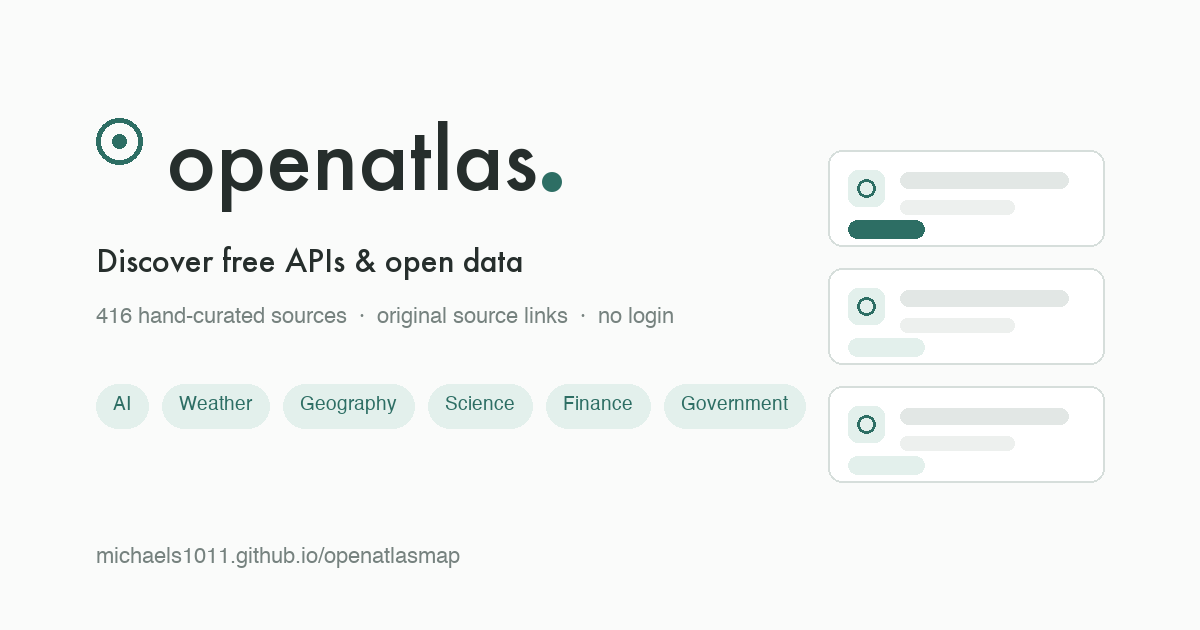
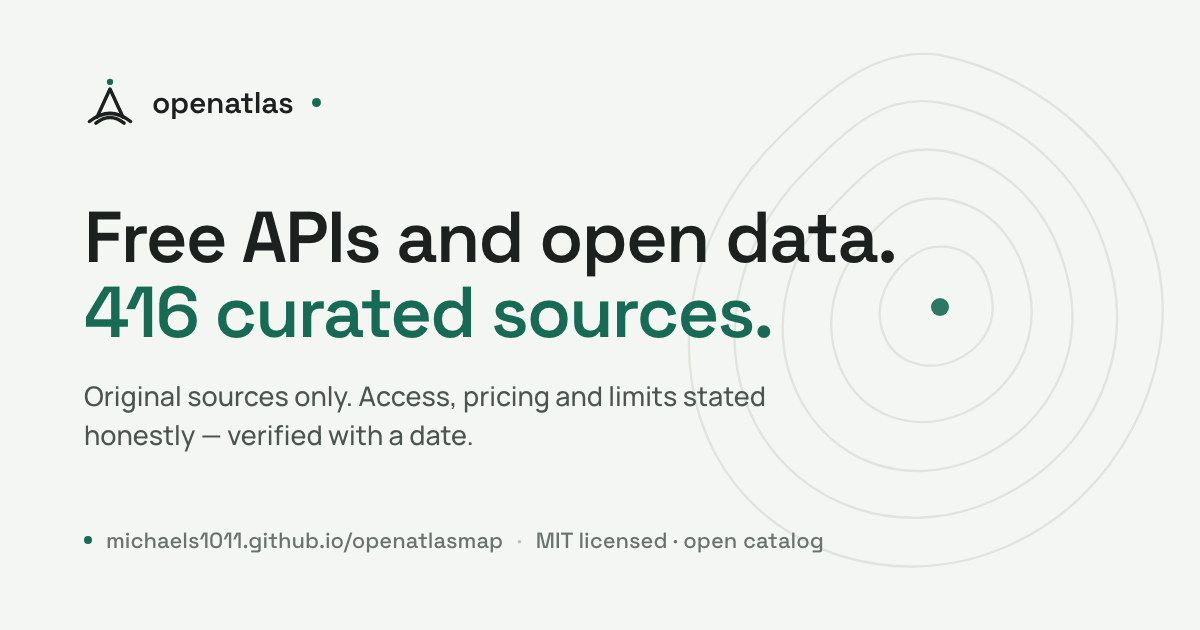
Refresh social preview card with Topo-Chevron brand; add its HTML source under scripts/

diff --git a/scripts/social-card.html b/scripts/social-card.html
@@ -1,0 +1,68 @@
+<!doctype html>
+<html>
+<head>
+<meta charset="utf-8">
+<style>
+  @font-face { font-family: "Space Grotesk"; src: url("file:///Users/mimiai/Documents/deepseek-harness/default-workspace/openatlasmap/node_modules/@fontsource-variable/space-grotesk/files/space-grotesk-latin-wght-normal.woff2"); font-weight: 300 700; }
+  @font-face { font-family: "Manrope"; src: url("file:///Users/mimiai/Documents/deepseek-harness/default-workspace/openatlasmap/node_modules/@fontsource-variable/manrope/files/manrope-latin-wght-normal.woff2"); font-weight: 200 800; }
+  * { margin: 0; padding: 0; box-sizing: border-box; }
+  html, body { width: 1200px; height: 630px; overflow: hidden; }
+  body {
+    background: #f4f6f3;
+    font-family: "Manrope", sans-serif;
+    color: #1c201e;
+    position: relative;
+    -webkit-font-smoothing: antialiased;
+  }
+  .topo {
+    position: absolute; right: -60px; top: 50%; transform: translateY(-50%);
+    width: 640px; height: 640px; opacity: 0.9;
+  }
+  .wrap { position: absolute; inset: 0; padding: 76px 84px; display: flex; flex-direction: column; justify-content: space-between; }
+  .brand { display: flex; align-items: center; gap: 16px; width: fit-content; }
+  .brand svg { display: block; color: #1c201e; }
+  .wordmark { font-family: "Space Grotesk"; font-weight: 600; font-size: 30px; letter-spacing: -0.01em; }
+  .dot { width: 9px; height: 9px; border-radius: 50%; background: #176b54; margin-left: 2px; }
+  h1 { font-family: "Space Grotesk"; font-weight: 600; font-size: 72px; line-height: 1.04; letter-spacing: -0.025em; max-width: 960px; }
+  h1 .accent { color: #176b54; }
+  .sub { font-family: "Manrope"; font-weight: 500; font-size: 27px; line-height: 1.45; color: #4c544f; max-width: 700px; margin-top: 26px; }
+  .foot { display: flex; align-items: center; gap: 14px; font-family: "Space Grotesk"; font-weight: 500; font-size: 22px; color: #6a726c; }
+  .foot .pip { width: 8px; height: 8px; border-radius: 50%; background: #176b54; }
+  .foot .sep { color: #b9c0ba; }
+</style>
+</head>
+<body>
+  <svg class="topo" viewBox="0 0 640 640" fill="none" aria-hidden="true">
+    <g stroke="#dde3dc" stroke-width="2.4">
+      <path d="M320 60 C 420 80 520 160 540 280 C 556 380 500 500 390 550 C 280 600 150 560 96 460 C 46 368 66 240 150 152 C 214 86 260 52 320 60 Z"/>
+      <path d="M322 108 C 404 124 476 190 494 288 C 510 374 464 466 372 506 C 282 546 180 512 136 430 C 96 354 112 252 182 180 C 234 126 268 98 322 108 Z"/>
+      <path d="M324 156 C 388 168 436 218 450 294 C 462 362 428 432 356 464 C 284 494 210 466 178 400 C 150 342 160 266 214 210 C 252 170 276 148 324 156 Z"/>
+      <path d="M326 204 C 372 212 400 246 410 298 C 418 344 396 394 344 418 C 292 440 240 420 220 372 C 202 330 212 280 248 242 C 272 216 288 200 326 204 Z"/>
+      <path d="M328 252 C 356 256 368 276 372 304 C 376 330 362 354 334 366 C 304 378 274 366 264 340 C 254 316 262 290 282 270 C 296 256 308 250 328 252 Z"/>
+    </g>
+    <circle cx="320" cy="312" r="9" fill="#176b54"/>
+  </svg>
+  <div class="wrap">
+    <div class="brand">
+      <svg width="52" height="52" viewBox="0 0 48 48" fill="none" stroke-linecap="round" stroke-linejoin="round">
+        <path d="M12 38 L24 12 L36 38" stroke="#1c201e" stroke-width="3.2"/>
+        <path d="M5 42 Q24 27 43 42" stroke="#1c201e" stroke-width="3.2"/>
+        <path d="M11 43.5 Q24 33 37 43.5" stroke="#1c201e" stroke-width="3.2"/>
+        <circle cx="24" cy="5.5" r="2.9" fill="#176b54"/>
+      </svg>
+      <span class="wordmark">openatlas</span>
+      <span class="dot"></span>
+    </div>
+    <div>
+      <h1>Free APIs and open data.<br><span class="accent">416 curated sources.</span></h1>
+      <p class="sub">Original sources only. Access, pricing and limits stated honestly &mdash; verified with a date.</p>
+    </div>
+    <div class="foot">
+      <span class="pip"></span>
+      <span>michaels1011.github.io/openatlasmap</span>
+      <span class="sep">&middot;</span>
+      <span>MIT licensed &middot; open catalog</span>
+    </div>
+  </div>
+</body>
+</html>
